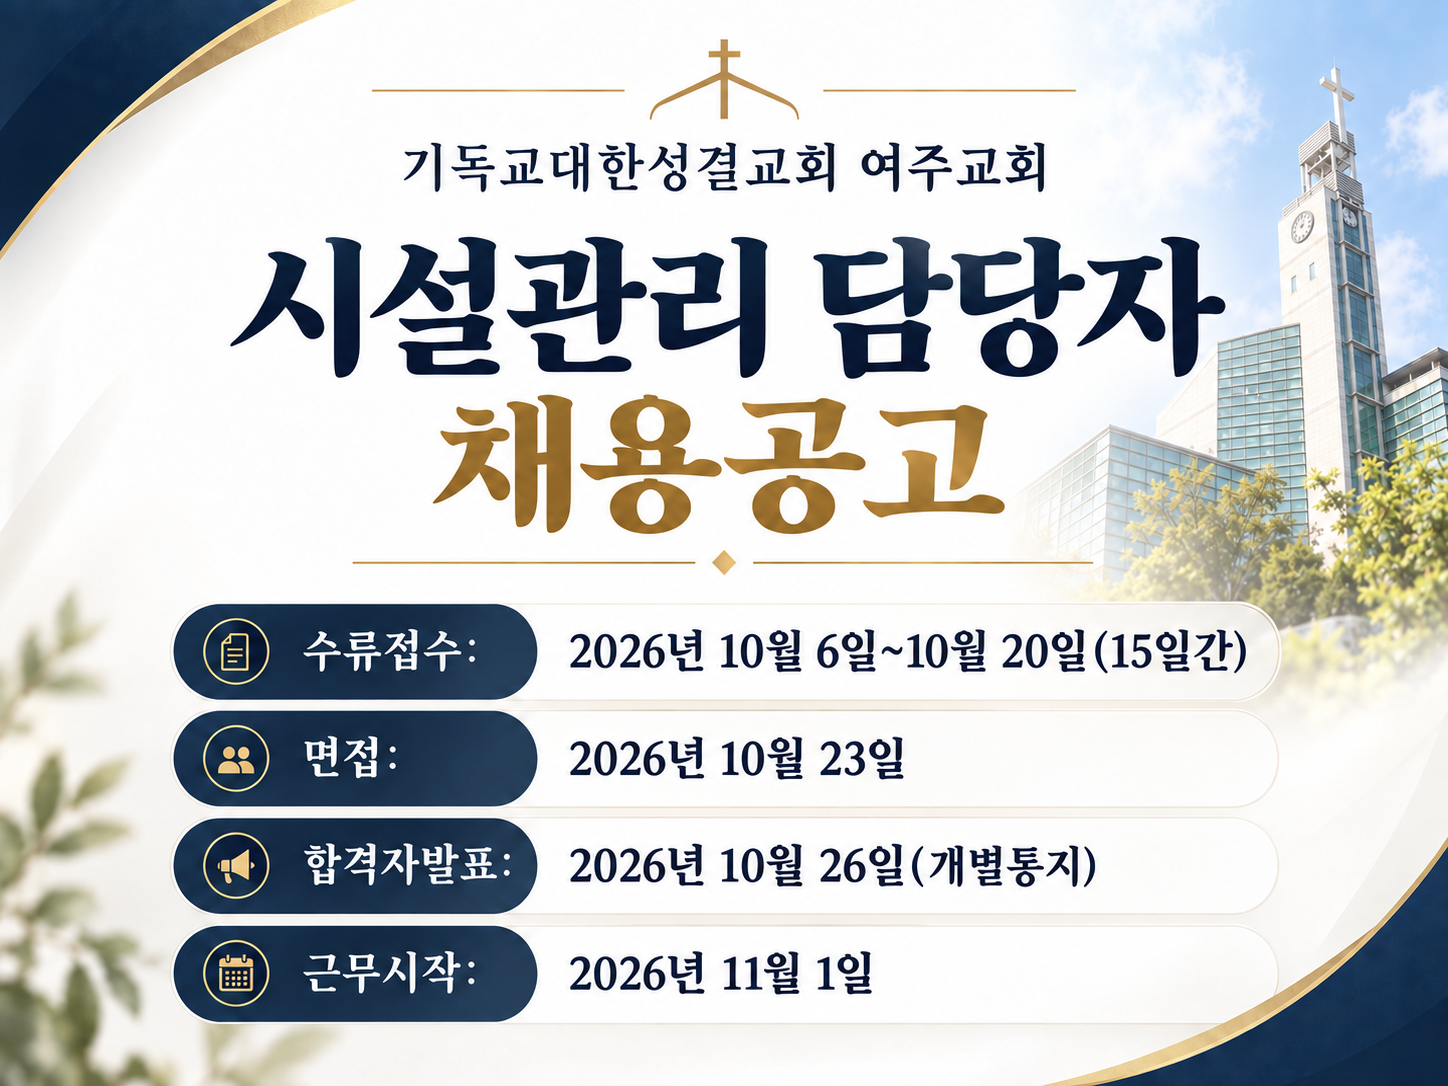
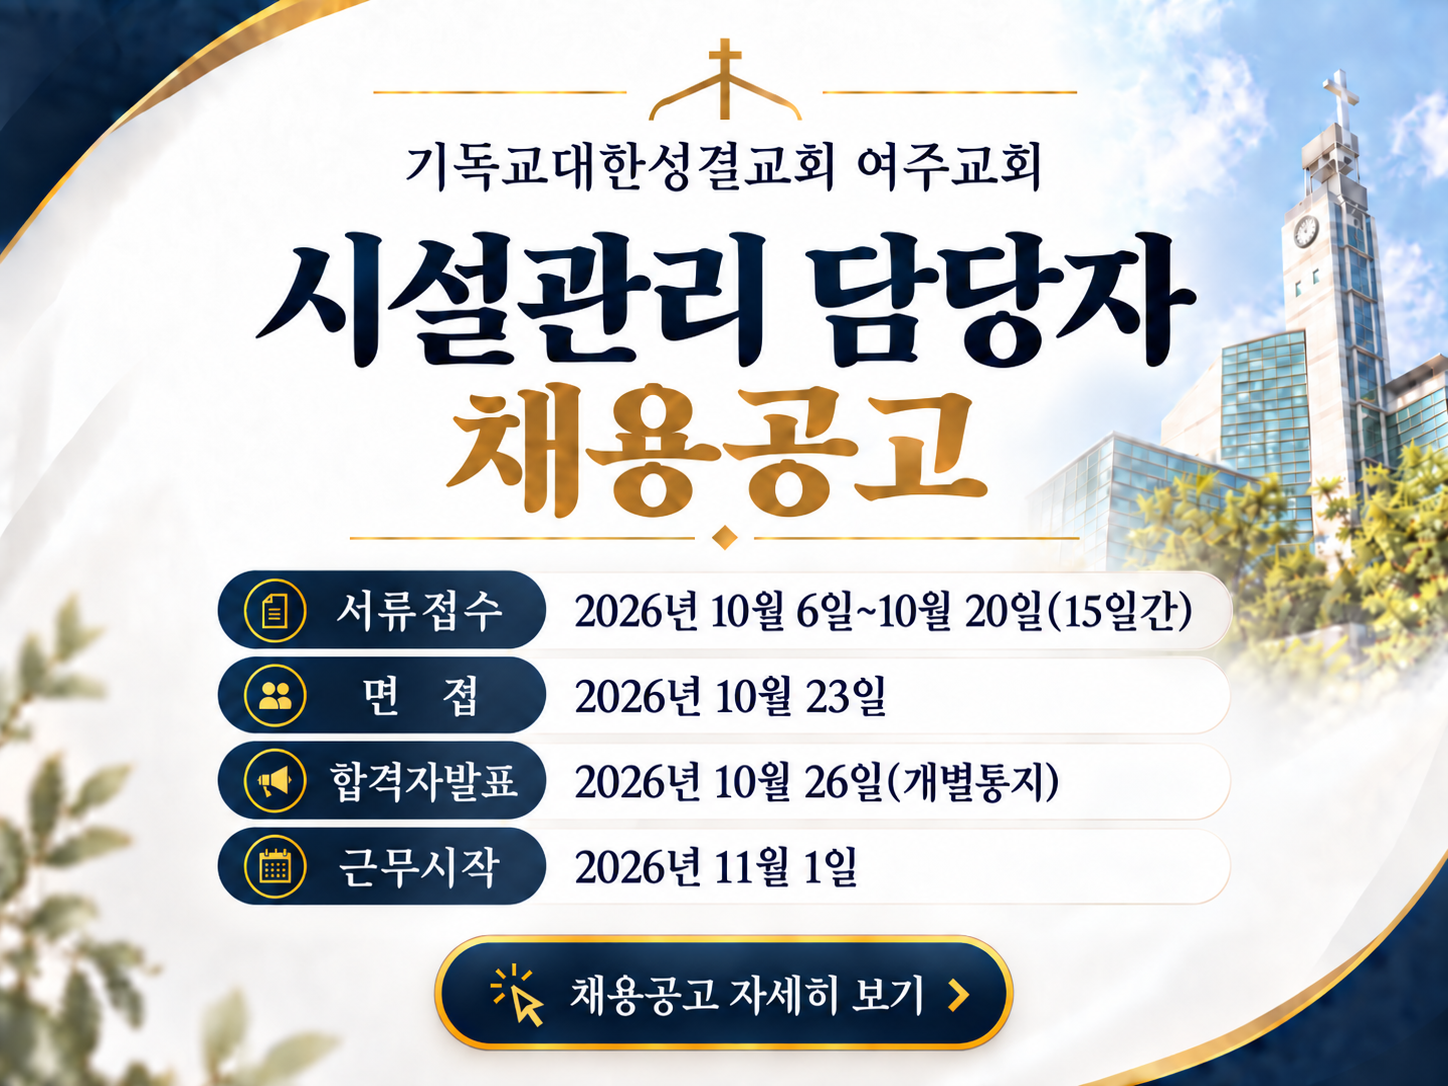
2026-10-07 홈페이지 게시물 업데이트  - 팝업 수정 · 시설관리담당자 채용 배너 - 팝업 수정 · 시설관리담당자 채용 배너

diff --git a/index.html b/index.html
@@ -400,8 +400,8 @@
                 linkUrl: "",
                 downloadUrl: "files/popups/popup_20261006_200337_c1090a.pdf",
                 downloadName: "여주성결 시설관리_담당자_채용공고.pdf",
-                width: 422,
-                height: 317,
+                width: 479,
+                height: 359,
                 top: 71,
                 left: 552,
                 startDate: "2026-10-06",
